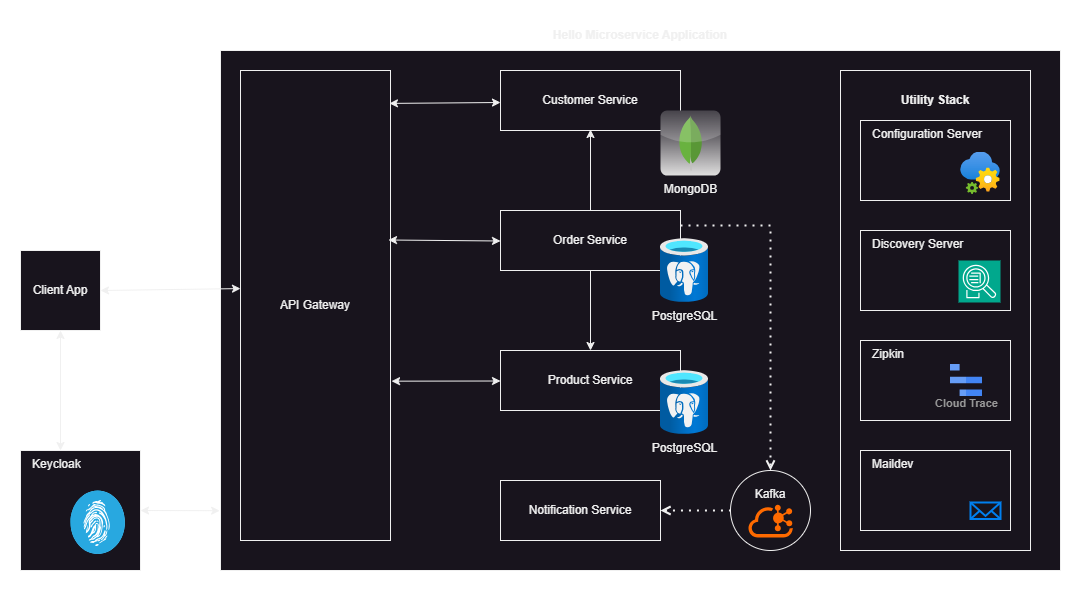
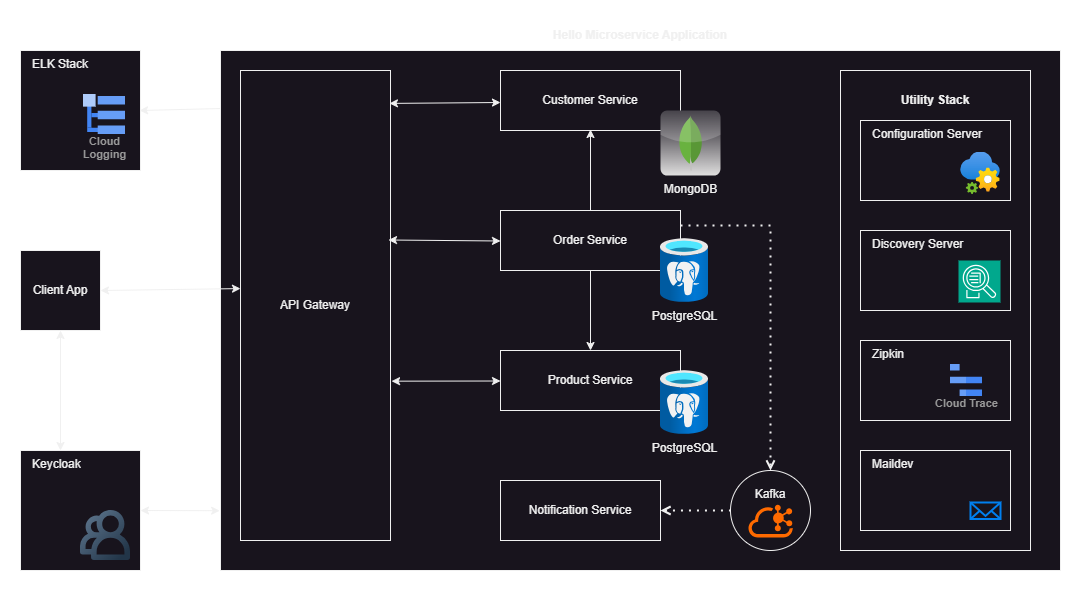
Added support for logging on an ELK stack

Changed region(s): [[0.0, 0.0609, 0.1526, 0.3046], [0.0611, 0.8223, 0.1221, 0.9746]]

diff --git a/README.md b/README.md
@@ -1,49 +1,50 @@
 # Hello Microservice
 
-A simple project that demonstrates how to build a microservice application with Spring Boot and Spring Cloud.
+A simple project that demonstrates how to create a microservices application with Spring Boot and Spring Cloud.
 
 ## Architecture
 
 ![](github-assets/architecture.png)
 
-The project has the following modules:
+The project includes the following modules:
 
-* **Configuration server** : provides configuration properties to other modules.
-* **Eureka discovery server**: allows microservices to dynamically discover each other.
-* **Notification service**: listens for events pushed on a Kafka topic and sends emails in response to them.
-* **Customer service**: manages customers stored as documents in a MongoDB collection.
-* **Product service**: manages products, product categories and product images stored in a PostgreSQL database.
-* **Order service**: manages orders. Interacts with the customer and product services. Pushes events in a Kafka topic to notify customers about their orders.
-* **API Gateway**: provides access to all services from a single host.
+* **Configuration Server**: Provides configuration properties to other modules.
+* **Eureka Discovery Server**: Allows microservices to dynamically discover each other and also acts as a load balancer.
+* **Notification Service**: Listens for events sent to a Kafka topic and sends emails in response.
+* **Customer Service**: Manages a repository of customers stored as documents in a MongoDB collection.
+* **Product Service**: Manages products, product categories, and product images stored in a PostgreSQL database.
+* **Order Service**: Manages orders. Interacts with the Customer and Product services. Sends events to a Kafka topic to notify clients of the receipt or update of their orders.
+* **API Gateway**: Allows access to all services from a single host.
 
 ## Resources
 
-The microservices interact with servers deployed as docker containers.
-Those are:
+Microservices interact with servers deployed in Docker containers.
+These are:
 
-* **PostgreSQL** and **PgAdmin 4**: A relational database management system (RDBMS) with a web based administration and query tool.
-* **MongoDB** with **Mongo Express**: A document based no-sql database management system with a web based administration and query tool.
-* **Apache Kafka** with **Kafka UI**: A message broker with a web based administration tool.
-* **Zipkin**: A web requests tracing system.
-* **Maildev**: A mail faker, it doesn't send mails but rather store them for local consultation.
-* **Keycloak**: An open-source identity and access management solution that effortlessly adds authentication to the microservices.
+* **PostgreSQL** and **PgAdmin 4**: A relational database management system (RDBMS) with a web-based administration and query interface.
+* **MongoDB** with **Mongo Express**: A document-based, no-SQL database management system (DBMS) with a web-based administration and query interface.
+* **Apache Kafka** with **Kafka UI**: A message broker with a web-based administration interface.
+* **Zipkin**: A web request tracing system.
+* **Maildev**: An email forgery, i.e., a pseudo-SMTP server that doesn't forward the mail it receives from its clients but stores it for local viewing.
+* **Keycloak**: An open-source identity and access management solution that allows for adding authentication and authorization support to microservices with little difficulty.
+* **ELK**: A tool stack comprising an **Elasticsearch** cluster, **Logstash**, and **Kibana**. Elasticsearch (ES) is a no-SQL DBMS with powerful indexing capabilities.
+  Kibana is a frontend for ES. Logstash acts as a pipeline that streams log messages from any source to ES. Together, these tools provide applications with a centralized, online-accessible logging platform.
 
-**Notes**:
+Notes:
 
-1. _docker-compose.yml_ files and launch scripts are provided for each server in the _containers_ subdirectory.
-2. You should manually recreate the _hello-microservice_ Keycloak realm that is used in this project. Its structure is schematized in the diagram bellow.
-3. You should also regenerate secret keys for the _customer-service_ and _product-service_ clients and paste them in the _order-service.yml_
-configuration file in place of the defaults (that's in the _hello-microservice-configuration_ git repository).
+1. *docker-compose.yml* files and launch scripts are provided for each server in the *containers* subdirectory of the project directory.
+2. You must manually recreate the *hello-microservice* Keycloak realm used in this project. Its structure is shown in the diagram below.
+3. You must also regenerate the *customer-service* and *product-service* client secrets and paste them into the *order-service.yml* configuration file instead of the default values (this is located in the *hello-microservice-configuration* Git repository).
 
 ![](github-assets/keycloak-realm.png)
 
 ## Configuration
 
-The configuration files are stored in a local git repository: [hello-microservice-configuration](https://github.com/michelmbem/hello-microservice-configuration).<br>
-The _config-server_ module should be running before building any other module.<br>
-The order of build is as follows:
+The configuration files are stored in a local Git repository: [hello-microservice-configuration](https://github.com/michelmbem/hello-microservice-configuration).<br>
+The *config-server* module must be run before building any other module.<br>
+The build order is as follows:
 
-1. config-server (launch it before moving forward)
+1. config-server (run it before continuing)
 2. discovery-server
 3. notification-service
 4. customer-service
